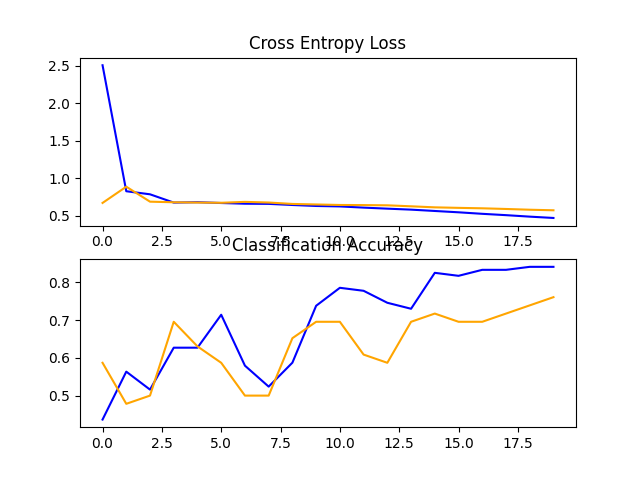
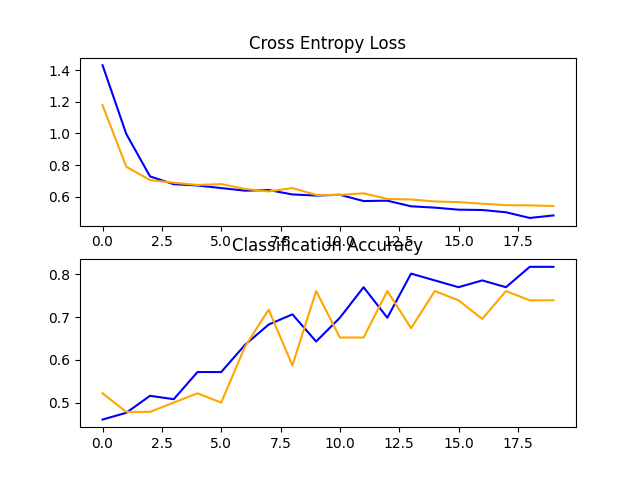
data augmentation added

diff --git a/dataset_upma_vs_halwa/decide_later.py b/dataset_upma_vs_halwa/decide_later.py
@@ -54,16 +54,17 @@ def summarize_diagnostics(history):
     pyplot.close()
 
 
-def run_test_harness(blocks):
+def run_test_harness(blocks,data_aug):
     model = define_model(blocks)
-    datagen = ImageDataGenerator(rescale=1.0 / 255.0)
-    train_it = datagen.flow_from_directory(
+    train_datagen = ImageDataGenerator(rescale=1.0 / 255.0,width_shift_range=0.1,height_shift_range=0.1,horizontal_flip=True) if data_aug else ImageDataGenerator(rescale=1.0 / 255.0)
+    test_datagen = ImageDataGenerator(rescale=1.0 / 255.0)
+    train_it = train_datagen.flow_from_directory(
         "dataset_upma_vs_halwa/train/",
         class_mode="binary",
         batch_size=64,
         target_size=(200, 200),
     )
-    test_it = datagen.flow_from_directory(
+    test_it = test_datagen.flow_from_directory(
         "dataset_upma_vs_halwa/test/",
         class_mode="binary",
         batch_size=64,
@@ -82,5 +83,5 @@ def run_test_harness(blocks):
     summarize_diagnostics(history)
 
 
-blocks = int(input("Enter the number of blocks: "))
-run_test_harness(blocks)
+blocks,data_aug = int(input("Enter the number of blocks: ")),int(input("For data augmentation enter 1, else 0: "))
+run_test_harness(blocks,data_aug)
